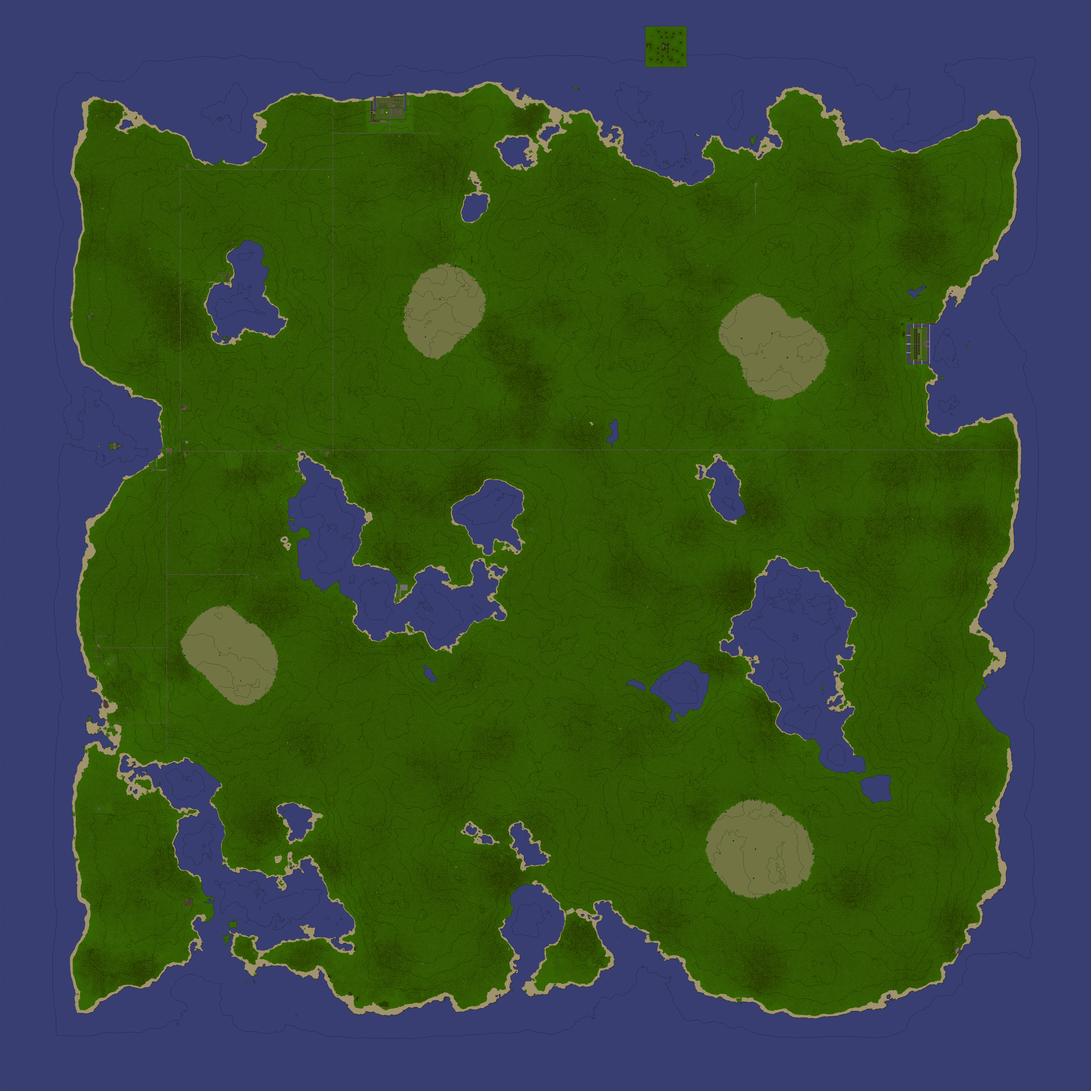
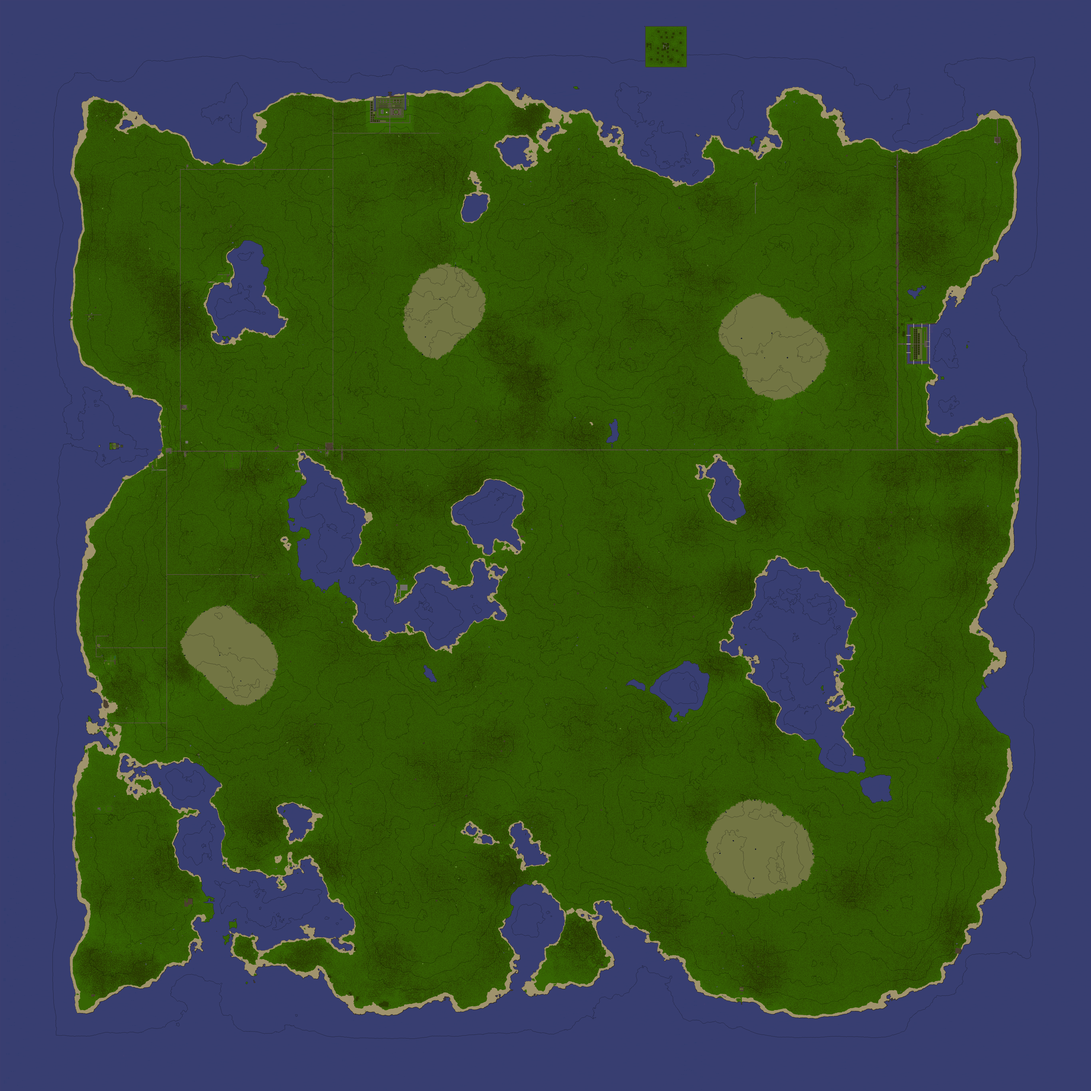
Add files via upload

Changed region(s): [[0.8125, 0.1875, 0.8438, 0.2188], [0.0938, 0.875, 0.125, 0.9062]]

diff --git a/config.js b/config.js
@@ -78,19 +78,16 @@ deeds.push(new Deed('Hot Sauce Central','Frank','Frank',1675903902733,false,4,36
 deeds.push(new Deed('Peachstone','Zelan','Zelan',1676059323098,false,4,703,624,156,false,653,574,753,634,0));
 deeds.push(new Deed('Sleepy Town','Tinashunter','Tinashunter',1676089981423,false,4,416,2481,154,false,386,2461,436,2501,0));
 deeds.push(new Deed('Bull Shores Shipyards','Grommyboi','Grommyboi',1676230367627,false,4,3519,1656,63,false,3499,1636,3539,1676,0));
-deeds.push(new Deed('Purgatory','Baaz','Baaz',1676356791303,false,4,2456,2510,180,false,2446,2495,2466,2525,0));
 deeds.push(new Deed('Polonia','Czemiel','Czemiel',1676387465028,false,4,339,1194,108,false,319,1174,359,1202,0));
 deeds.push(new Deed('Aberdine','Ziane','Ziane',1676514641050,true,4,408,3036,85,false,398,3011,436,3061,0));
 deeds.push(new Deed('Zimna Wodka','Ciastek','Ciastek',1676738889861,false,4,1983,3312,20,false,1968,3297,1998,3317,0));
 deeds.push(new Deed('Guppy Green','Drazin','Drazin',1676850955261,false,4,1055,1888,66,false,1048,1881,1062,1899,0));
-deeds.push(new Deed('Hots Pirate H Q','Cptjack','Cptjack',1676964555328,false,4,1487,2256,37,false,1457,2191,1532,2276,0));
 deeds.push(new Deed('Versailles','Cierra','Cierra',1677018567781,false,4,3462,1291,50,false,3393,1211,3498,1371,10));
 deeds.push(new Deed('White Pearl','Empress','Empress',1677095628827,false,4,3240,2909,11,false,3220,2889,3260,2929,0));
 deeds.push(new Deed('Grannys Star Place','Grannysmith','Grannysmith',1677433673302,false,4,954,618,67,false,934,598,974,635,0));
 deeds.push(new Deed('King\'s Cross','Buzka','Buzka',1677440511503,false,4,2335,3434,30,false,2330,3429,2340,3439,0));
 deeds.push(new Deed('Kleinhawe','Gromble','Gromble',1678427873783,false,4,617,1535,63,false,597,1525,637,1545,0));
 deeds.push(new Deed('Kito','Master','Master',1678449164984,false,4,1195,1673,180,false,1190,1668,1200,1678,0));
-deeds.push(new Deed('Serenity Valley','Steve','Steve',1678490811657,false,4,832,1311,52,false,827,1306,837,1316,0));
 deeds.push(new Deed('Hill Of Vynora','Temilia','Stewen',1678552293875,false,4,456,1674,45,false,410,1662,462,1686,0));
 deeds.push(new Deed('The Dragon\'s Keep','Eveswaffora','Eveswaffora',1678795571378,false,4,872,1732,381,false,842,1702,902,1762,0));
 deeds.push(new Deed('Danger Island','Dragon','Dragon',1678831259293,false,4,2499,174,298,false,2419,94,2579,254,0));
@@ -100,7 +97,6 @@ deeds.push(new Deed('Northlake','General','General',1679306248279,false,4,2308,1
 deeds.push(new Deed('Stalwart Hold','Miragio','Miragio',1679331726591,false,4,1412,2423,82,false,1402,2413,1422,2433,0));
 deeds.push(new Deed('Dwarf Hideout','Temilia','Temilia',1679412469389,false,4,375,1339,111,false,370,1334,380,1344,0));
 deeds.push(new Deed('Beach Resort','Baccus','Baccus',1679989768186,true,4,410,2711,24,false,400,2701,420,2721,0));
-deeds.push(new Deed('Frakland','Frakyr','Frakyr',1680200480460,false,4,1037,3261,50,false,1027,3251,1047,3271,5));
 deeds.push(new Deed('City Of Lost','Gardenkeeper','Gardenkeeper',1680454978326,false,4,856,1054,40,false,796,994,866,1064,0));
 deeds.push(new Deed('Trelheim','Tralen','Tralen',1680487030701,false,4,1711,991,174,false,1691,971,1731,1002,0));
 deeds.push(new Deed('Thunder Bay','Falkirk','Falkirk',1680498592280,false,4,1900,3564,47,false,1889,3548,1927,3575,0));
@@ -108,12 +104,16 @@ deeds.push(new Deed('Candy City','Skittle','Skittle',1680567418554,false,4,1960,
 deeds.push(new Deed('Morning Fog','Aassepoester','Aassepoester',1680752670848,true,4,524,1801,71,false,502,1758,547,1845,0));
 deeds.push(new Deed('Festers Place','Fester','Fester',1681193539891,false,4,965,2165,161,false,930,2145,1000,2185,0));
 deeds.push(new Deed('Elemental','Shadroth','Shadroth',1681994249293,false,4,695,1704,335,false,690,1695,710,1715,0));
-deeds.push(new Deed('Wherever','Billy','Billy',1682430633276,false,4,1226,1701,173,false,1221,1691,1236,1712,0));
+deeds.push(new Deed('Wherever','Billy','Billy',1682430633276,false,4,1226,1701,173,false,1221,1663,1248,1712,0));
 deeds.push(new Deed('Datadyne Hideout','Trenteaston','Trenteaston',1682601752740,false,4,693,1529,310,false,678,1519,703,1539,0));
-deeds.push(new Deed('Sorrowshade','Rasa','Rasa',1682608168346,false,4,3593,3569,12,false,3583,3559,3603,3579,0));
+deeds.push(new Deed('Sorrowshade','Rasa','Rasa',1682608168346,false,4,3593,3569,13,false,3583,3559,3603,3579,0));
 deeds.push(new Deed('The Last Of The Bean Family','Charleyboy','Charleyboy',1682789860427,false,4,1044,1676,105,false,1025,1663,1063,1689,0));
 deeds.push(new Deed('The Neighborhood Of Make-believe','Eteladric','Eteladric',1682886297785,false,4,772,1119,36,false,752,1109,777,1129,0));
 deeds.push(new Deed('Homestead','Simone','Simone',1682902466656,false,4,1133,1816,19,false,1128,1811,1138,1821,0));
+deeds.push(new Deed('Noreaster','Rosey','Rosey',1683202938487,false,4,3744,525,105,false,3704,485,3784,565,0));
+deeds.push(new Deed('Whitestone','Plebcicle','Plebcicle',1683303479066,false,4,2783,3714,76,false,2766,3697,2800,3724,5));
+deeds.push(new Deed('Fredericks Town','Tinaskat','Tinaskat',1683460716996,false,4,867,852,309,false,852,837,882,867,0));
+deeds.push(new Deed('E N C L A V E','Shadowthief','Shadowthief',1683738624226,false,4,344,3736,55,false,319,3711,369,3761,0));
 kingdoms[0] = new Kingdom(0,'no known kingdom','','[color-list]');
 kingdoms[1] = new Kingdom(1,'Jenn-Kellon','','');
 kingdoms[2] = new Kingdom(2,'Mol Rehan','','');
@@ -125,17 +125,20 @@ guardTowers.push(new GuardTower('',28720584,4,1525,451,237,''));
 guardTowers.push(new GuardTower('',41498195,4,1408,445,183,''));
 guardTowers.push(new GuardTower('',47388154,4,1526,363,19,''));
 highwayNodes = [
-   [1251,1689,186,1117,1689,52],[1250,1688,186,1251,1689,186],[1250,1689,186,1],[1112,1694,50,1117,1689,52],[1250,636,466,677,636,221,1],
-   [626,1699,66,1],[1250,500,218,1250,1349,241,1],[1250,500,218,1463,500,327,1],[644,1694,66,1],[1464,440,109,1464,499,326,1],
-   [631,1694,66,1112,1694,50],[628,1695,66,626,1697,66],[630,1695,66,628,1695,66],[630,1695,66,631,1694,66],[702,636,171,701,635,171],
-   [701,625,157,701,636,171,1],[369,2432,98,626,2432,431,1],[625,2432,431,626,2433,428],[626,2432,431,369,2432,98,1],[701,636,171,701,625,157,1],
-   [677,1694,278,677,636,221,1],[677,637,221,678,636,221],[677,1693,278,678,1694,284],[1250,501,220,1251,500,219],[1250,637,467,1249,636,467],
-   [1464,499,326,1463,500,327],[1464,500,327,1],[420,2714,22,1],[626,2714,333,419,2714,22,1],[571,1765,71,626,1765,140,1],
-   [626,1765,140,571,1765,71,1],[625,1765,140,626,1766,140],[626,2715,331,625,2714,333],[626,2718,323,626,1697,66],[933,2157,227,1],
-   [626,2157,409,937,2157,210,1],[627,2157,410,626,2158,408],[1250,1690,185,1249,1689,186],[1250,1690,185,1250,1688,186],[1250,1690,185,1251,1689,186]
+   [1112,1694,62,1117,1689,62],[1250,636,466,677,636,221,1],[626,1699,66,1],[1250,500,218,1250,1693,184,1],[1250,500,218,1463,500,327,1],
+   [644,1694,66,1],[1464,440,109,1464,499,326,1],[3369,1689,340,3369,1196,243,1],[631,1694,66,1112,1694,62],[628,1695,66,626,1697,66],
+   [630,1695,66,628,1695,66],[630,1695,66,631,1694,66],[702,636,171,701,635,171],[701,625,157,701,636,171,1],[369,2432,98,626,2432,431,1],
+   [625,2432,431,626,2433,428],[626,2432,431,369,2432,98,1],[701,636,171,701,625,157,1],[677,637,221,678,636,221],[1250,501,220,1251,500,219],
+   [1250,637,467,1249,636,467],[1464,499,326,1463,500,327],[1464,500,327,1],[420,2714,22,1],[626,2714,333,419,2714,22,1],
+   [571,1765,71,626,1765,140,1],[626,1765,140,571,1765,71,1],[625,1765,140,626,1766,140],[626,2715,331,625,2714,333],[626,2718,323,626,1697,66],
+   [933,2157,227,1],[626,2157,409,937,2157,210,1],[627,2157,410,626,2158,408],[1250,1690,198,1249,1689,198],[1251,1689,198,1250,1690,198],
+   [1251,1689,198,1250,1688,198],[677,1694,279,677,636,221,1],[3401,1292,135,1],[3369,1292,281,3402,1292,135,1],[1284,1690,228,1283,1689,228],
+   [1284,1690,228,1285,1689,228],[3369,1688,340,3370,1689,340],[3781,1689,83,1117,1689,62],[3370,1292,281,3369,1293,281],[1284,1688,228,1284,1690,228],
+   [1284,1688,228,1285,1689,228],[678,1694,280,677,1693,279],[1522,1689,396,1],[1284,1689,228,1],[1250,1689,198,1]
 ];
 bridgeNodes = [
 ];
 tunnelNodes = [
+   [3786,1689,72,3782,1689,76,1]
 ];
-var timestamp = 1682990908673;
+var timestamp = 1683762150430;
